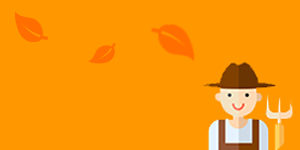
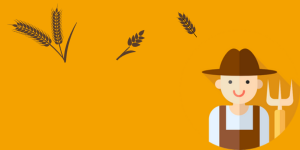
update style app

diff --git a/lib/screen/farmer/show_send_result.dart b/lib/screen/farmer/show_send_result.dart
@@ -106,12 +106,24 @@ class _ShowSendResultScreenState extends State<ShowSendResultScreen> {
                                       padding: const EdgeInsets.only(left: 50),
                                       child: Align(
                                         alignment: Alignment.topLeft,
-                                        child: Text(
-                                          "ผลผลิตที่ส่ง : ${widget.rawMaterialShipping?.planting?.plantName}",
-                                          style: TextStyle(
-                                            fontFamily: 'Itim',
-                                            fontSize: 16
-                                          ),
+                                        child: Row(
+                                          children: [
+                                            Text(
+                                              "ผลผลิตที่ส่ง : ",
+                                              style: TextStyle(
+                                                fontFamily: 'Itim',
+                                                fontSize: 16,
+                                                fontWeight: FontWeight.bold
+                                              ),
+                                            ),
+                                             Text(
+                                              "${widget.rawMaterialShipping?.planting?.plantName}",
+                                              style: TextStyle(
+                                                fontFamily: 'Itim',
+                                                fontSize: 16
+                                              ),
+                                            ),
+                                          ],
                                         ),
                                       ),
                                     ),
@@ -119,12 +131,24 @@ class _ShowSendResultScreenState extends State<ShowSendResultScreen> {
                                       padding: const EdgeInsets.only(left: 50),
                                       child: Align(
                                         alignment: Alignment.topLeft,
-                                        child: Text(
-                                          "วันที่ส่งผลผลิต : ${buddhistYearConverter.convertDateTimeToBuddhistDate(widget.rawMaterialShipping?.rawMatShpDate)}",
-                                          style: TextStyle(
-                                            fontFamily: 'Itim',
-                                            fontSize: 16
-                                          ),
+                                        child: Row(
+                                          children: [
+                                            Text(
+                                              "วันที่ส่งผลผลิต : ",
+                                              style: TextStyle(
+                                                fontFamily: 'Itim',
+                                                fontSize: 16,
+                                                fontWeight: FontWeight.bold
+                                              ),
+                                            ),
+                                             Text(
+                                              "${buddhistYearConverter.convertDateTimeToBuddhistDate(widget.rawMaterialShipping?.rawMatShpDate)}",
+                                              style: TextStyle(
+                                                fontFamily: 'Itim',
+                                                fontSize: 16
+                                              ),
+                                            ),
+                                          ],
                                         ),
                                       ),
                                     ),
@@ -132,12 +156,24 @@ class _ShowSendResultScreenState extends State<ShowSendResultScreen> {
                                       padding: const EdgeInsets.only(left: 50),
                                       child: Align(
                                         alignment: Alignment.topLeft,
-                                        child: Text(
-                                          "ปริมาณผลผลิตที่ส่ง : ${widget.rawMaterialShipping?.rawMatShpQty} ${widget.rawMaterialShipping?.rawMatShpQtyUnit}",
-                                          style: TextStyle(
-                                            fontFamily: 'Itim',
-                                            fontSize: 16
-                                          ),
+                                        child: Row(
+                                          children: [
+                                            Text(
+                                              "ปริมาณผลผลิตที่ส่ง : ",
+                                              style: TextStyle(
+                                                fontFamily: 'Itim',
+                                                fontSize: 16,
+                                                fontWeight: FontWeight.bold
+                                              ),
+                                            ),
+                                              Text(
+                                              "${widget.rawMaterialShipping?.rawMatShpQty} ${widget.rawMaterialShipping?.rawMatShpQtyUnit}",
+                                              style: TextStyle(
+                                                fontFamily: 'Itim',
+                                                fontSize: 16
+                                              ),
+                                            ),
+                                          ],
                                         ),
                                       ),
                                     ),
@@ -145,12 +181,24 @@ class _ShowSendResultScreenState extends State<ShowSendResultScreen> {
                                       padding: const EdgeInsets.only(left: 50, bottom: 30),
                                       child: Align(
                                         alignment: Alignment.topLeft,
-                                        child: Text(
-                                          "ผู้รับปลายทาง : ${widget.rawMaterialShipping?.manufacturer?.manuftName}",
-                                          style: TextStyle(
-                                            fontFamily: 'Itim',
-                                            fontSize: 16
-                                          ),
+                                        child: Row(
+                                          children: [
+                                            Text(
+                                              "ผู้รับปลายทาง : ",
+                                              style: TextStyle(
+                                                fontFamily: 'Itim',
+                                                fontSize: 16,
+                                                fontWeight: FontWeight.bold
+                                              ),
+                                            ),
+                                            Text(
+                                              "${widget.rawMaterialShipping?.manufacturer?.manuftName}",
+                                              style: TextStyle(
+                                                fontFamily: 'Itim',
+                                                fontSize: 16
+                                              ),
+                                            ),
+                                          ],
                                         ),
                                       ),
                                     ),

diff --git a/lib/screen/user/trace_product_by_qrcode_second_user_screen.dart b/lib/screen/user/trace_product_by_qrcode_second_user_screen.dart
@@ -153,7 +153,7 @@ class _TraceProductByQRCodeSecondScreenState extends State<TraceProductByQRCodeS
     context: context,
     builder: (context) => StatefulBuilder(
       builder: (context, setState) => AlertDialog(
-        title: Center(child: Text("การส่งผลผลิต",style: TextStyle(fontFamily: 'Itim',fontSize: 20),)),
+        title: Center(child: Text("การส่งผลผลิต",style: TextStyle(fontFamily: 'Itim',fontSize: 20,fontWeight: FontWeight.bold),)),
         content: showProductDetails == true?
         Container(
           width: MediaQuery.of(context).size.width,
@@ -164,7 +164,7 @@ class _TraceProductByQRCodeSecondScreenState extends State<TraceProductByQRCodeS
                   alignment: Alignment.topLeft,
                   child: Text(
                     "รายละเอียดการส่งผลผลิต",
-                    style: TextStyle(fontFamily: 'Itim',fontSize: 20),
+                    style: TextStyle(fontFamily: 'Itim',fontSize: 20,fontWeight: FontWeight.bold),
                   ),
                 ),
                 Align(
@@ -257,7 +257,7 @@ class _TraceProductByQRCodeSecondScreenState extends State<TraceProductByQRCodeS
     context: context,
     builder: (context) => StatefulBuilder(
       builder: (context, setState) => AlertDialog(
-        title: Center(child: Text("ข้อมูลทางโภชนาการของสินค้า",style: TextStyle(fontFamily: 'Itim',fontSize: 20),)),
+        title: Center(child: Text("ข้อมูลทางโภชนาการของสินค้า",style: TextStyle(fontFamily: 'Itim',fontSize: 20,fontWeight: FontWeight.bold),)),
         content: showProductDetails == true?
         Container(
           width: MediaQuery.of(context).size.width,
@@ -480,7 +480,7 @@ class _TraceProductByQRCodeSecondScreenState extends State<TraceProductByQRCodeS
           ),
         ],
         title: Center(child: Text("ผู้ผลิต",
-                    style: TextStyle(fontFamily: 'Itim',fontSize: 20),)),
+                    style: TextStyle(fontFamily: 'Itim',fontSize: 20,fontWeight: FontWeight.bold),)),
         content:
         mnPage == 0 && showManufacturerDetails == true? 
         Container(
@@ -492,7 +492,7 @@ class _TraceProductByQRCodeSecondScreenState extends State<TraceProductByQRCodeS
                   alignment: Alignment.topLeft,
                   child: Text(
                     "ข้อมูลผู้ผลิต",
-                    style: TextStyle(fontFamily: 'Itim',fontSize: 20),
+                    style: TextStyle(fontFamily: 'Itim',fontSize: 20,fontWeight: FontWeight.bold),
                   ),
                 ),
                 Align(
@@ -587,7 +587,7 @@ class _TraceProductByQRCodeSecondScreenState extends State<TraceProductByQRCodeS
                   alignment: Alignment.topLeft,
                   child: Text(
                     "ใบรับรอง GMP",
-                    style: TextStyle(fontFamily: 'Itim',fontSize: 20),
+                    style: TextStyle(fontFamily: 'Itim',fontSize: 20,fontWeight: FontWeight.bold),
                   ),
                 ),
                 Align(
@@ -686,7 +686,7 @@ class _TraceProductByQRCodeSecondScreenState extends State<TraceProductByQRCodeS
                   alignment: Alignment.topLeft,
                   child: Text(
                     "รายละเอียดการผลิต",
-                    style: TextStyle(fontFamily: 'Itim',fontSize: 20),
+                    style: TextStyle(fontFamily: 'Itim',fontSize: 20,fontWeight: FontWeight.bold),
                   ),
                 ),
                 Align(
@@ -830,7 +830,7 @@ class _TraceProductByQRCodeSecondScreenState extends State<TraceProductByQRCodeS
             ],
           ),
         ],
-        title: Center(child: Text("เกษตรกร",style: TextStyle(fontFamily: 'Itim'),)),
+        title: Center(child: Text("เกษตรกร",style: TextStyle(fontFamily: 'Itim',fontWeight: FontWeight.bold),)),
         content: page == 0 && showFarmerDetails == true? 
         Container(
           width: MediaQuery.of(context).size.width,
@@ -841,7 +841,7 @@ class _TraceProductByQRCodeSecondScreenState extends State<TraceProductByQRCodeS
                   alignment: Alignment.topLeft,
                   child: Text(
                     "ข้อมูลเกษตรกร",
-                    style: TextStyle(fontFamily: 'Itim',fontSize: 20),
+                    style: TextStyle(fontFamily: 'Itim',fontSize: 20,fontWeight: FontWeight.bold),
                   ),
                 ),
                 Align(
@@ -936,7 +936,7 @@ class _TraceProductByQRCodeSecondScreenState extends State<TraceProductByQRCodeS
                   alignment: Alignment.topLeft,
                   child: Text(
                     "ใบรับรอง IFOAM",
-                    style: TextStyle(fontFamily: 'Itim',fontSize: 20),
+                    style: TextStyle(fontFamily: 'Itim',fontSize: 20,fontWeight: FontWeight.bold),
                   ),
                 ),
                 Align(
@@ -1036,7 +1036,7 @@ class _TraceProductByQRCodeSecondScreenState extends State<TraceProductByQRCodeS
                   alignment: Alignment.topLeft,
                   child: Text(
                     "รายละเอียดการปลูกผลผลิต",
-                    style: TextStyle(fontFamily: 'Itim',fontSize: 20),
+                    style: TextStyle(fontFamily: 'Itim',fontSize: 20,fontWeight: FontWeight.bold),
                   ),
                 ),
                 const SizedBox(height: 10),

diff --git a/lib/screen/admin/navbar_admin.dart b/lib/screen/admin/navbar_admin.dart
@@ -79,12 +79,12 @@ class _AdminNavbarState extends State<AdminNavbar> {
             ),
             decoration: BoxDecoration(
               color:kClipPathColorAM,
-              // image: DecorationImage(
-              //     image: AssetImage('images/ftmju_header_logo.png'))
+               image: DecorationImage(
+                   image: AssetImage('images/navbar_admin.png'))
             ),
           ),
           ListTile(
-            leading: const Icon(Icons.account_circle,color: Color.fromARGB(255, 46, 153, 50)),
+            leading: const Icon(Icons.account_circle,color: Color.fromARGB(255, 35, 125, 38)),
             title: const Text("การลงทะเบียนเกษตรกร",style: TextStyle(fontFamily: 'Itim',color:Colors.black,fontSize: 16 ),),
             onTap: () {
               print("Go to farmer registration page");
@@ -98,7 +98,7 @@ class _AdminNavbarState extends State<AdminNavbar> {
             },
           ),
           ListTile(
-            leading: const Icon(Icons.account_circle,color: Color.fromARGB(255, 46, 153, 50)),
+            leading: const Icon(Icons.account_circle,color:Color.fromARGB(255, 35, 125, 38)),
             title: const Text("การลงทะเบียนผู้ผลิต",style: TextStyle(fontFamily: 'Itim',color:Colors.black,fontSize: 16 ),),
             onTap: () {
               print("Go to manuft registration page");
@@ -112,7 +112,7 @@ class _AdminNavbarState extends State<AdminNavbar> {
             },
           ),
           ListTile(
-            leading: const Icon(Icons.document_scanner,color: Color.fromARGB(255, 46, 153, 50)),
+            leading: const Icon(Icons.document_scanner,color: Color.fromARGB(255, 35, 125, 38)),
             title: const Text("การร้องขอต่ออายุใบรับรองเกษตรกร",style: TextStyle(fontFamily: 'Itim',color:Colors.black,fontSize: 16 ),),
             onTap: () {
               print("Go to manuft registration page");
@@ -127,7 +127,7 @@ class _AdminNavbarState extends State<AdminNavbar> {
             },
           ),
           ListTile(
-            leading: const Icon(Icons.document_scanner,color: Color.fromARGB(255, 46, 153, 50)),
+            leading: const Icon(Icons.document_scanner,color: Color.fromARGB(255, 35, 125, 38)),
             title: const Text("การร้องขอต่ออายุใบรับรองผู้ผลิต",style: TextStyle(fontFamily: 'Itim',color:Colors.black,fontSize: 16 ),),
             onTap: () {
               print("Go to manuft registration page");
@@ -142,7 +142,7 @@ class _AdminNavbarState extends State<AdminNavbar> {
             },
           ),
           ListTile(
-            leading: const Icon(Icons.logout,color:  Color.fromARGB(255, 46, 153, 50)),
+            leading: const Icon(Icons.logout,color:  Color.fromARGB(255, 35, 125, 38)),
             title: const Text("ออกจากระบบ",style: TextStyle(fontFamily: 'Itim',color:Colors.black,fontSize: 16 ),),
             onTap: () async {
               print("Go to login page");

diff --git a/lib/constant/constant.dart b/lib/constant/constant.dart
@@ -8,10 +8,10 @@ var kFontLoginScreenColor = Colors.black;
 var kClipPathColor = Colors.green;
 var kClipPathColorAM = Color.fromARGB(255, 46, 153, 50);
 var kClipPathColorFM = Colors.orange;
-var kClipPathColorMN = Color.fromARGB(255, 15, 150, 145);
+var kClipPathColorMN = Color.fromRGBO(25, 93, 118, 1);
 var kClipPathColorTextFM = Color.fromARGB(255, 255, 255, 255);
 var kClipPathColorTextMN = Color.fromARGB(255, 255, 255, 255);
-var kClipPathColorTextNavbarAM = Color.fromARGB(255, 255, 255, 255);
+var kClipPathColorTextNavbarAM = Color.fromARGB(255, 19, 1, 1);
 var kClipPathColorTextNavbarFM = Color.fromARGB(255, 0, 0, 0);
 var kClipPathColorTextNavbarMN = Color.fromARGB(255, 0, 0, 0);
-var KClipPathIconsColorNavberMN =  Color.fromARGB(255, 4, 92, 89);
+var KClipPathIconsColorNavberMN =  Color.fromRGBO(25, 93, 118,1);

diff --git a/lib/screen/user/navbar_user.dart b/lib/screen/user/navbar_user.dart
@@ -22,7 +22,7 @@ class _UserNavbarState extends State<UserNavbar> {
             decoration: BoxDecoration(
                 color: kClipPathColorAM,
                 image: DecorationImage(
-                    image: AssetImage('images/ftmju_header_logo.png'))),
+                    image: AssetImage('images/ftmju.png'))),
           ),
           ListTile(
             leading: const Icon(Icons.add,color:  Color.fromARGB(255, 13, 69, 6)),
